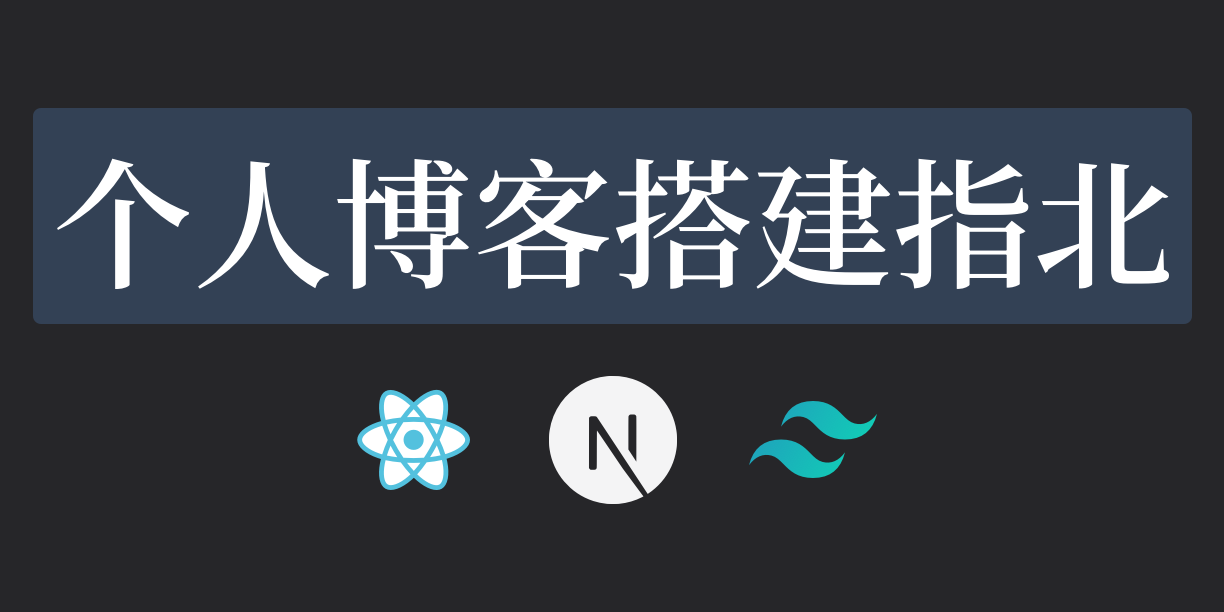
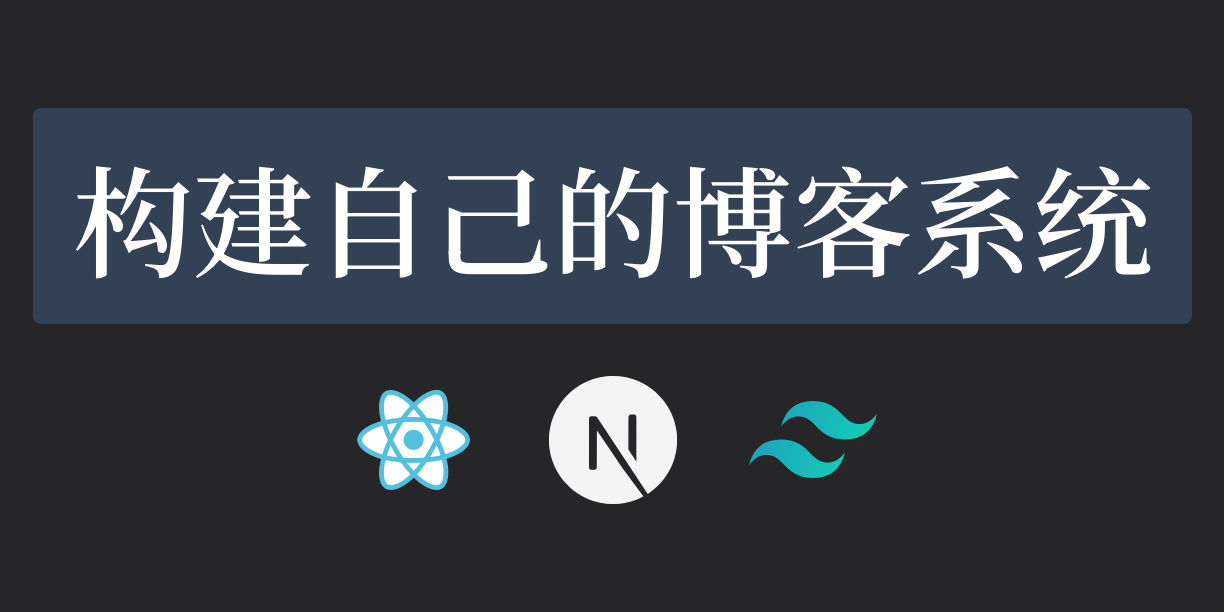
post: update "blog-diy"

Changed region(s): [[0.031, 0.2484, 0.9624, 0.4657]]

diff --git a/README.md b/README.md
@@ -22,7 +22,7 @@
 ## Learn more
 I've written a post discussing how to design a blog system.
 
-- [个人博客搭建指北](https://www.whexy.com/posts/blog-diy) (in Chinese)
+- [构建自己的博客系统](https://www.whexy.com/posts/blog-diy) (in Chinese)
 
 ## Overview
 
